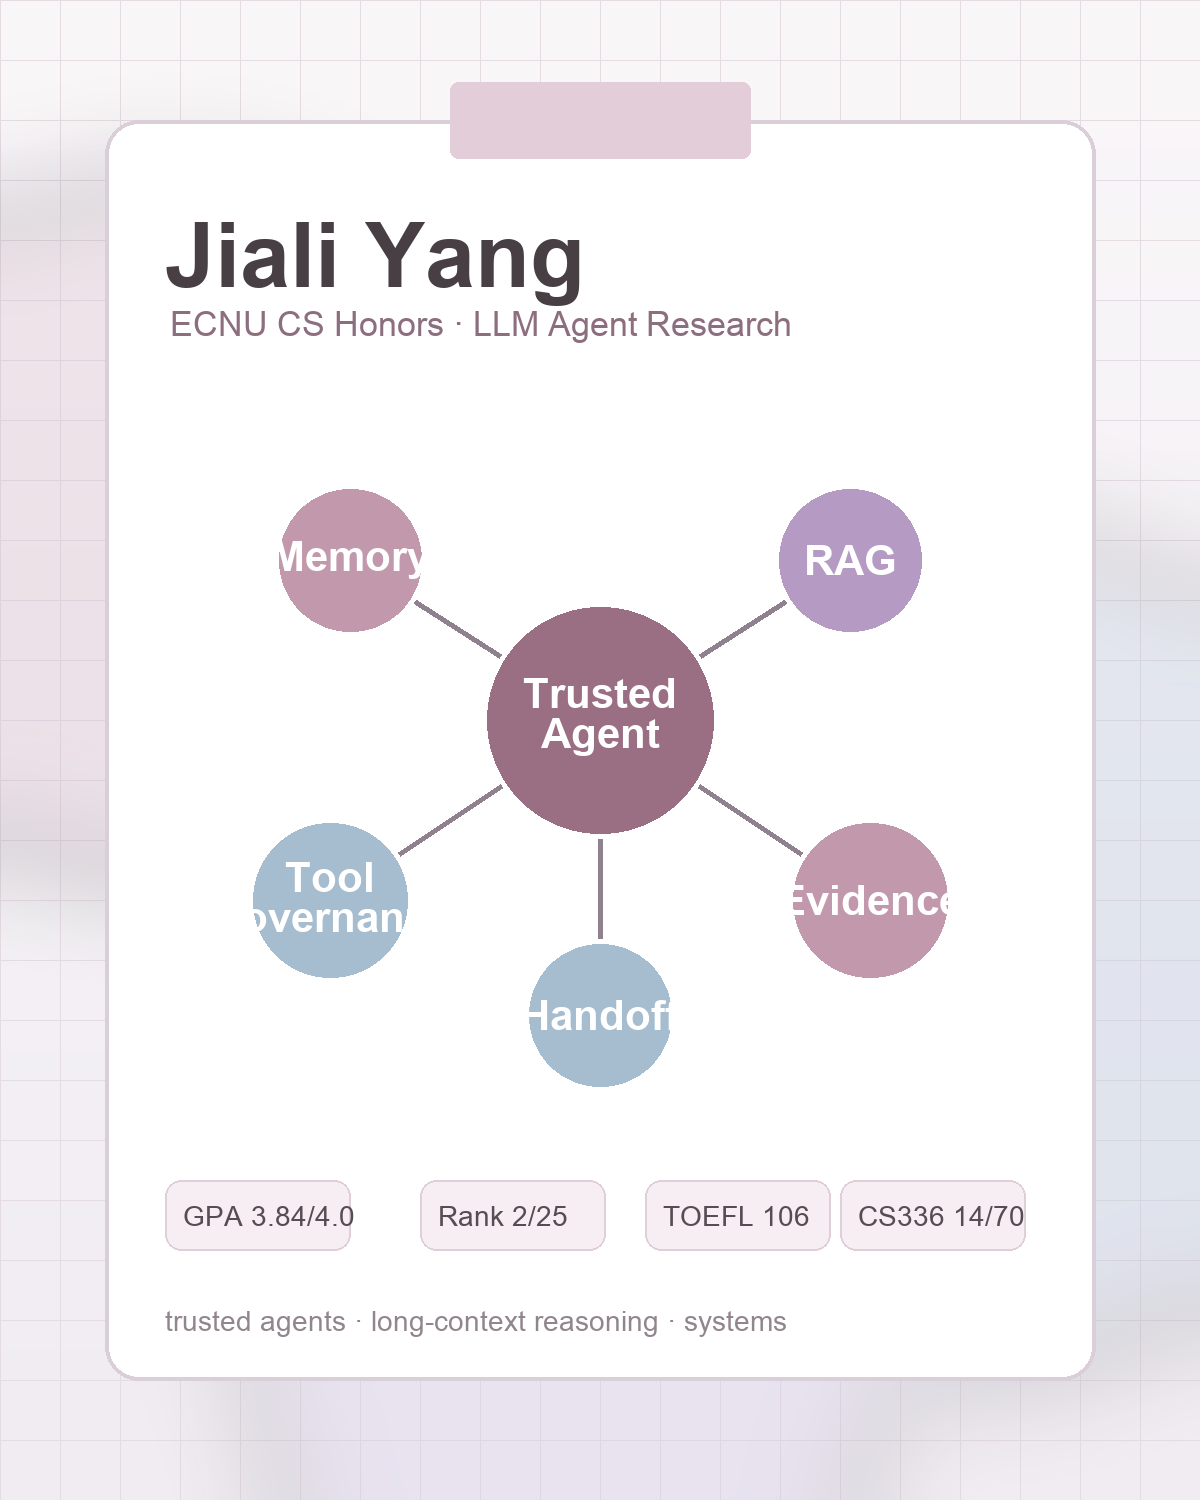
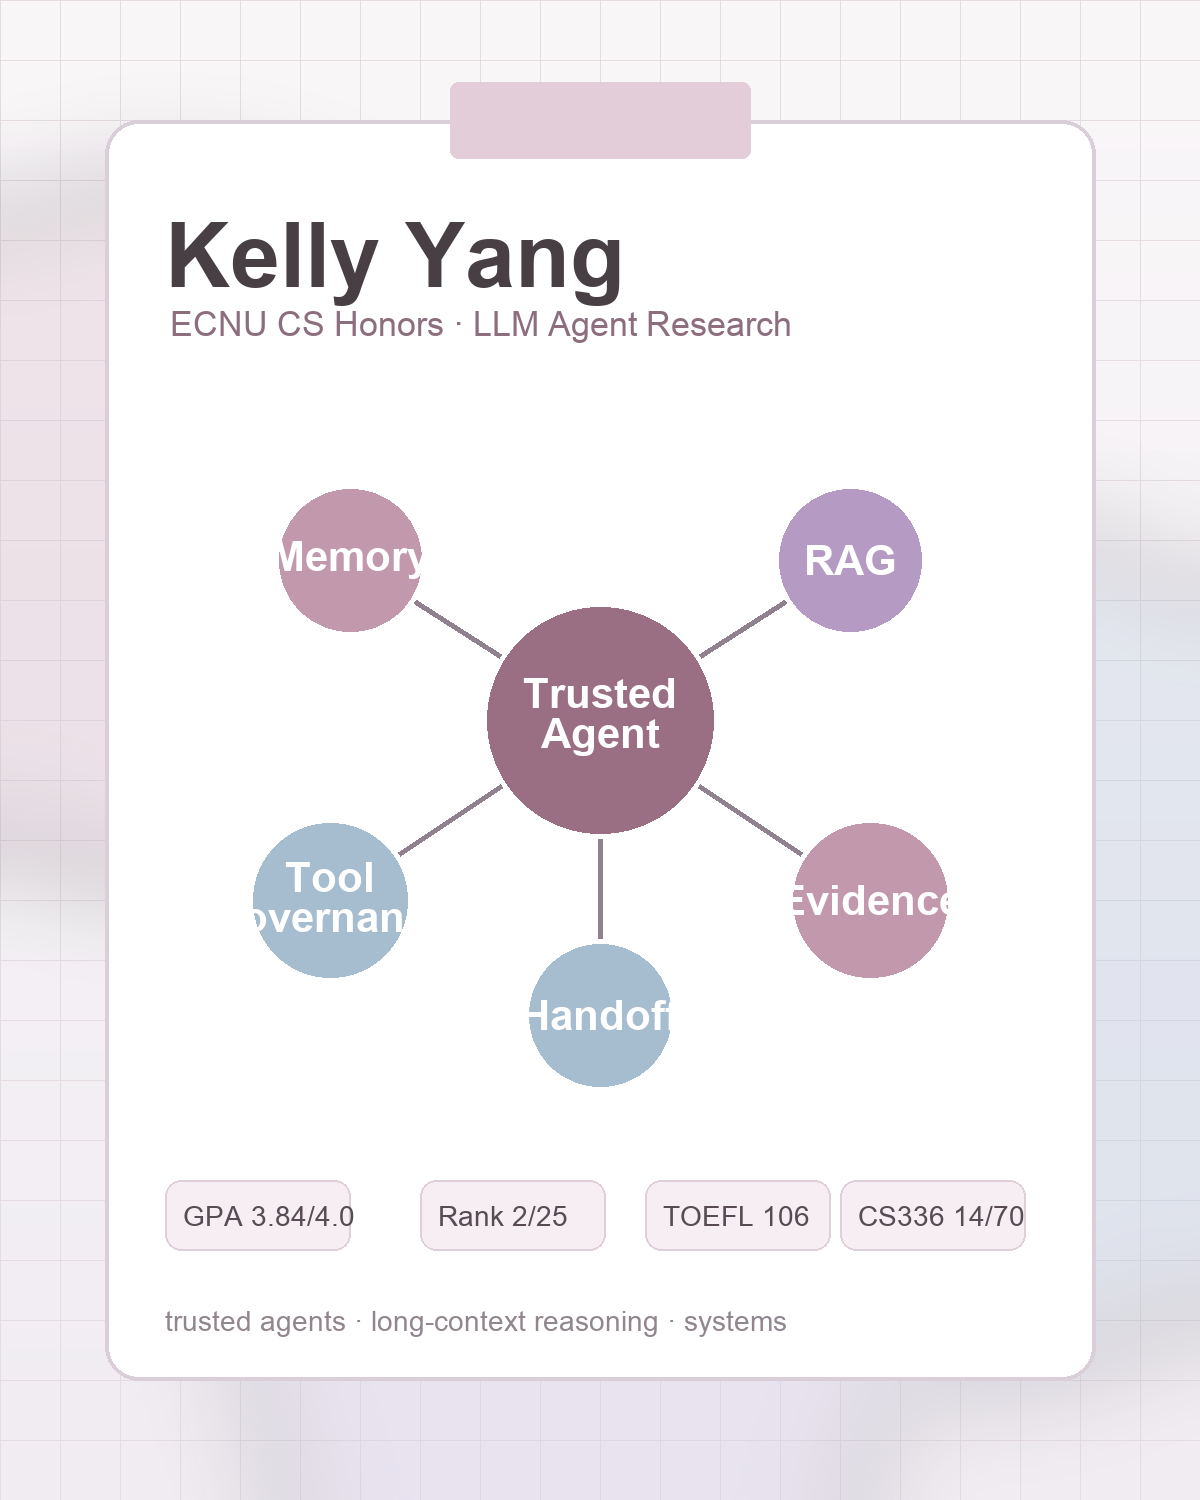
Update photos and research media

Changed region(s): [[0.1233, 0.1227, 0.5242, 0.2147]]

diff --git a/index.html b/index.html
@@ -37,26 +37,27 @@
                 <div class="polaroid-face">
                   <div class="tape"></div>
                   <div class="photo">
-                    <img src="assets/research-note-card.png" alt="杨嘉莉研究手账卡" width="1200" height="1500">
+                    <img src="assets/my-photo-front.jpg" alt="杨嘉莉照片" width="675" height="900" loading="eager">
                   </div>
                   <span class="label">agent notebook</span>
                 </div>
                 <div class="polaroid-face polaroid-back-face">
                   <div class="tape pink"></div>
-                  <div class="photo">
-                    <img src="assets/agent-systems-map.png" alt="Agent systems research map" width="1800" height="1200">
+                  <div class="photo photo-stack">
+                    <img src="assets/my-photo-back-1.jpg" alt="杨嘉莉生活照 1" width="1200" height="900" loading="lazy">
+                    <img src="assets/my-photo-back-2.jpg" alt="杨嘉莉生活照 2" width="1200" height="783" loading="lazy">
                   </div>
                   <span class="label">systems map</span>
                 </div>
               </div>
             </div>
-            <span class="photo-annotation">Jiali Yang</span>
+            <span class="photo-annotation">Kelly Yang</span>
           </div>
 
           <div class="hero-text reveal reveal-delay-1">
             <div class="hero-text-tape"></div>
             <p class="eyebrow">ECNU CS Honors · 2027</p>
-            <h1>Hey, I'm <em>杨嘉莉</em> <span>Jiali</span></h1>
+            <h1>Hey, I'm <em>杨嘉莉</em> <span>Kelly</span></h1>
             <p class="subtitle" id="typewriterTarget"></p>
             <div class="tags">
               <span class="tag">LLM Agent</span>
@@ -173,6 +174,9 @@
                 <span>引入 Dynamic RAG 与“双轨记忆”机制，增强证据回溯能力与上下文连贯性。</span>
                 <span>目标一致性维持在 96% 以上，较基线提升 45%；关键论据召回率达 92%，长程对话幻觉率降低 38%。</span>
               </div>
+              <div class="tl-media">
+                <img src="assets/debate-agent-project.png" alt="面向长程交互可靠性的辩论 Agent 项目图" width="1672" height="941" loading="lazy">
+              </div>
             </button>
           </article>
 
@@ -186,6 +190,10 @@
                 <span>针对防御效果与图像语义保真之间的权衡问题，完成实验验证与专利材料撰写。</span>
                 <span>在 CIFAR-10 / GTSRB 等基准上将后门攻击成功率从 90%+ 压制至 6.15% 以下，同时保持分类准确率 90%+。</span>
                 <span>国家发明专利 202511807335.9，实质审查阶段。</span>
+              </div>
+              <div class="tl-media patent-gallery">
+                <img src="assets/patent-figure-1.png" alt="专利图 1" width="1016" height="1196" loading="lazy">
+                <img src="assets/patent-figure-2.png" alt="专利图 2" width="2460" height="504" loading="lazy">
               </div>
             </button>
           </article>
@@ -288,7 +296,7 @@
           <div class="contact-links">
             <a href="mailto:10234804407@stu.ecnu.edu.cn">Email</a>
             <a href="https://github.com/NinjaKelly" target="_blank" rel="noopener">GitHub</a>
-            <a href="assets/Yang_Jiali_CV.pdf" target="_blank" rel="noopener">下载简历</a>
+            <a href="assets/Yang_Kelly_CV.pdf" target="_blank" rel="noopener">下载简历</a>
           </div>
         </div>
         <p class="footer-note">杨嘉莉 · Made with AI · 2026</p>

diff --git a/styles.css b/styles.css
@@ -229,6 +229,20 @@ button {
   object-fit: cover;
 }
 
+.polaroid .photo-stack {
+  display: grid;
+  grid-template-rows: 1fr 1fr;
+  gap: 8px;
+  padding: 0;
+  background: #fff;
+}
+
+.polaroid .photo-stack img {
+  min-height: 0;
+  border: 1px solid var(--gray-100);
+  object-fit: cover;
+}
+
 .polaroid .label {
   position: absolute;
   left: 0;
@@ -740,6 +754,33 @@ button {
   background: var(--pink-400);
 }
 
+.tl-media {
+  margin-top: 16px;
+}
+
+.tl-media img {
+  width: 100%;
+  border: 8px solid #fff;
+  box-shadow: 0 4px 18px rgba(0, 0, 0, 0.05);
+  object-fit: cover;
+}
+
+.tl-media:not(.patent-gallery) img {
+  aspect-ratio: 1672 / 941;
+  height: auto;
+}
+
+.patent-gallery {
+  display: grid;
+  grid-template-columns: 0.75fr 1.25fr;
+  gap: 10px;
+  align-items: stretch;
+}
+
+.patent-gallery img {
+  height: 160px;
+}
+
 .projects-grid {
   display: grid;
   grid-template-columns: repeat(2, minmax(0, 1fr));
@@ -992,13 +1033,14 @@ button {
   }
 
   .polaroid {
-    width: 220px;
-    height: 326px;
+    --polaroid-w: min(220px, 78vw);
+    width: var(--polaroid-w);
+    height: calc(var(--polaroid-w) * 1.482);
   }
 
   .polaroid .photo {
-    width: 194px;
-    height: 234px;
+    width: calc(var(--polaroid-w) - 26px);
+    height: calc(var(--polaroid-w) * 1.064);
   }
 
   .section {
@@ -1063,6 +1105,42 @@ button {
 
   .contact-links a {
     width: 100%;
+  }
+}
+
+@media (max-width: 360px) {
+  .hero-doodle {
+    display: none;
+  }
+
+  .photo-annotation {
+    right: 0;
+  }
+
+  .timeline::before {
+    left: 12px;
+  }
+
+  .timeline-item,
+  .timeline-item:nth-child(even) {
+    padding-left: 32px;
+  }
+
+  .timeline-item::before,
+  .timeline-item:nth-child(even)::before {
+    left: 7px;
+  }
+
+  .tl-card {
+    padding: 18px;
+  }
+
+  .tl-detail span {
+    padding-left: 10px;
+  }
+
+  .patent-gallery {
+    grid-template-columns: 1fr;
   }
 }
 

diff --git a/README.md b/README.md
@@ -1,6 +1,6 @@
 # NinjaKelly.github.io
 
-Personal academic homepage for Jiali Yang.
+Personal academic homepage for Kelly Yang.
 
 ## Local Preview
 
